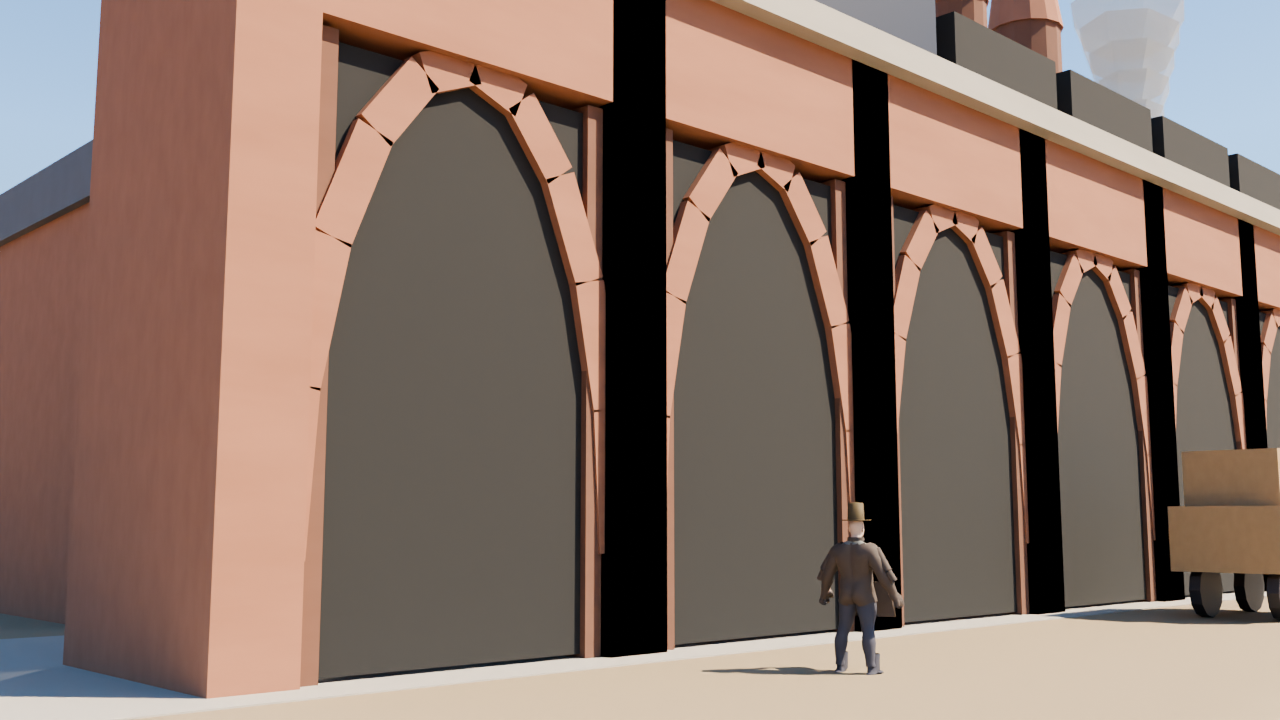
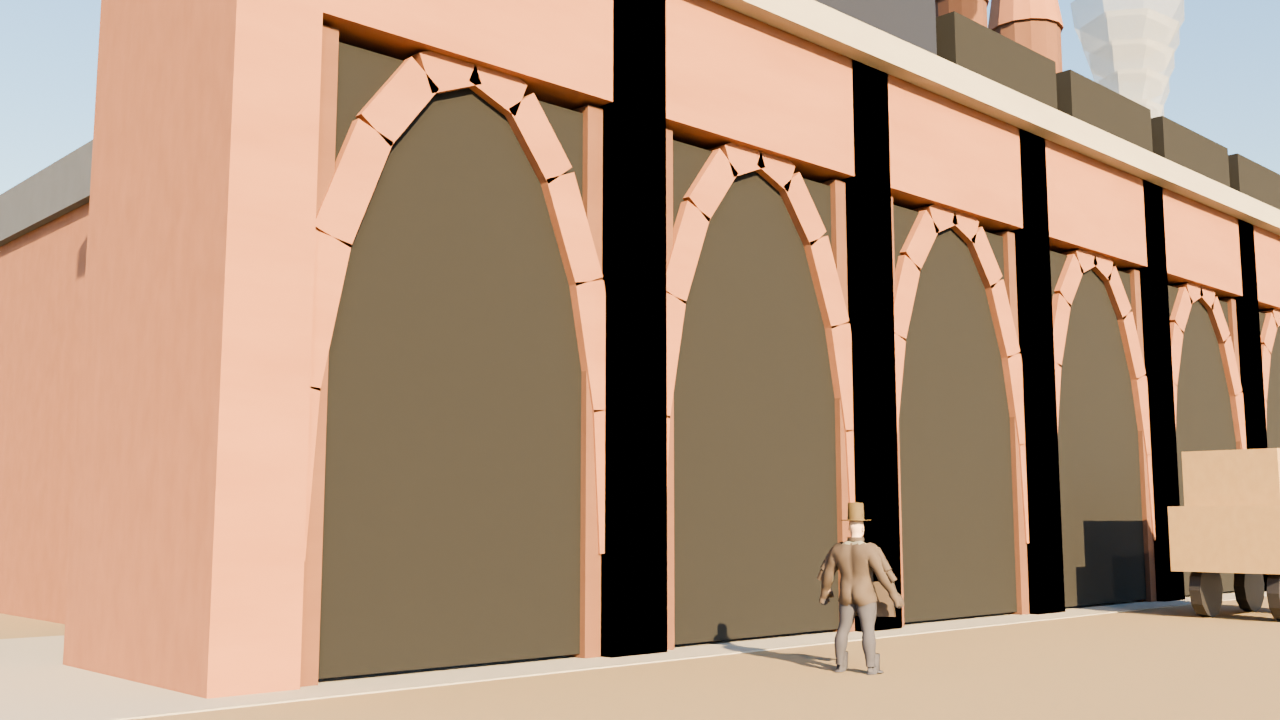
mat keep-lighting redo CP002/CP005; people_lib 3.3
Re-render lane/room with enhance_offsite_materials + --keep-lighting
(authored exposure). Vendor people_lib 3.3 statue exclusion.

diff --git a/course-models/offsite-london-1850-grok/scripts/people_lib.py b/course-models/offsite-london-1850-grok/scripts/people_lib.py
@@ -1,4 +1,4 @@
-"""crystal-palace-people v3.2 — HBM base humans + period-correct modelled garments.
+"""crystal-palace-people v3.3 — HBM base humans + period-correct modelled garments.
 
 Drop-in API (compatible with v2 callers):
   person_mesh(name, kind, mats, FT=0.3048, style=None, pose=None, lod=None, seed=None)
@@ -10,6 +10,7 @@ decimated LODs under people/vendor/bases/. Garments are modelled shells
 police tunic) — not lathe primitives. Proportions: head ~1/7.5 height;
 1850s crowd height 5'0"–5'10". Matte period colours; no white hats.
 Crowd mix: ~42% ladies; crinoline hem ~0.9–1.0 m with waist taper; mid-tone skirts.
+Exclude statues/sculptures/busts and any figure on a plinth or pedestal (keep authored marble/bronze).
 """
 from __future__ import annotations
 import hashlib, math, os, random
@@ -20,7 +21,7 @@ import bpy
 import bmesh
 from mathutils import Matrix, Vector, Euler
 
-PEOPLE_VERSION = "3.2"
+PEOPLE_VERSION = "3.3"
 PEOPLE_TAG = "cpl_people_v3"
 
 _HERE = Path(__file__).resolve().parent
@@ -1173,16 +1174,120 @@ def catalogue():
 # ---------------------------------------------------------------------------
 
 _FIGURE_PREFIXES = (
-    "CROWD", "VIS_", "PERSON", "FIG_", "FIGURE", "PEOPLE", "GENT", "LADY",
+    "CROWD", "VIS_", "PERSON", "FIG_", "PEOPLE", "GENT", "LADY",
     "MAN_", "WOMAN", "CHILD", "BOY_", "GIRL", "POLICE", "SAILOR", "SOLDIER",
     "KWORKER", "WORKER", "NAVY", "FIRE", "GUEST", "STAFF",
     "FB_HERO", "FB_VAR", "PV57_", "CROWD36", "LFB_",
 )
+# Note: bare "FIGURE" removed — it false-matched STATUE_*_FIGURE names.
 _FIGURE_KINDS = {"figure", "worker", "crowd", "person", "human", "visitor"}
+_STATUE_KINDS = {"statue", "sculpture", "sculpt", "bust", "plinth", "pedestal",
+                 "monument", "equestrian", "relief", "ornament"}
+_STATUE_NAME_TOKENS = (
+    "STATUE", "SCULPT", "SCULPTURE", "EQUEST", "BUST_", "_BUST",
+    "MONUMENT", "RELIEF_", "MARBLE_FIG", "BRONZE_FIG",
+)
+_STATUE_MAT_TOKENS = ("gt_marble", "gt_bronze", "marble", "bronze")
+_CLOTHING_MAT_TOKENS = ("coat", "dress", "skirt", "trou", "skin", "hat", "bonnet",
+                        "shawl", "bodice", "smock", "shirt", "waist")
+_PLINTH_NAME_TOKENS = ("PLINTH", "PEDESTAL", "PEDEST")
+
+
+def _mats_blob(ob: bpy.types.Object) -> str:
+    if ob.type != "MESH" or not ob.data:
+        return ""
+    return " ".join((m.name or "").lower() for m in (ob.data.materials or []) if m)
+
+
+def _name_is_statue(name: str) -> bool:
+    n = name.upper()
+    if any(tok in n for tok in _STATUE_NAME_TOKENS):
+        return True
+    # sculpture groups (equestrian / marble groups) — not crowd
+    if n.startswith("GROUP_") and any(t in n for t in ("HORSE", "EQUEST", "M38", "SCULPT", "STATUE")):
+        return True
+    return False
+
+
+def _has_statue_material(ob: bpy.types.Object) -> bool:
+    mats = _mats_blob(ob)
+    if not mats:
+        return False
+    if any(c in mats for c in _CLOTHING_MAT_TOKENS):
+        return False
+    return any(t in mats for t in _STATUE_MAT_TOKENS)
+
+
+_PLINTH_CACHE = None  # list[(obj, loc, top_z)] rebuilt per swap
+
+
+def _plinth_cache():
+    global _PLINTH_CACHE
+    if _PLINTH_CACHE is not None:
+        return _PLINTH_CACHE
+    out = []
+    for p in bpy.data.objects:
+        if p.type != "MESH":
+            continue
+        pn = p.name.upper()
+        if not any(t in pn for t in _PLINTH_NAME_TOKENS):
+            continue
+        pl = p.matrix_world.translation
+        out.append((p, pl, pl.z + max(p.dimensions.z, 0.05)))
+    _PLINTH_CACHE = out
+    return out
+
+
+def _rests_on_plinth(ob: bpy.types.Object) -> bool:
+    """True if parent/name is a plinth/pedestal, or a plinth sits under the object's feet."""
+    n = ob.name.upper()
+    if any(t in n for t in _PLINTH_NAME_TOKENS):
+        # the plinth mesh itself is not a crowd figure
+        return True
+    parent = ob.parent
+    if parent is not None:
+        pn = parent.name.upper()
+        if any(t in pn for t in _PLINTH_NAME_TOKENS) or _name_is_statue(parent.name):
+            return True
+    # geometric: plinth within 2.5 m XY whose top is near object origin Z
+    loc = ob.matrix_world.translation
+    for p, pl, top_z in _plinth_cache():
+        if p is ob:
+            continue
+        dxy = (pl.x - loc.x) ** 2 + (pl.y - loc.y) ** 2
+        if dxy > 6.25:  # 2.5^2
+            continue
+        if abs(top_z - loc.z) < 0.75 or (pl.z < loc.z and (loc.z - top_z) < 0.4):
+            return True
+    return False
+
+
+def _is_statue_or_plinth_figure(ob: bpy.types.Object) -> bool:
+    """Authored marble/bronze statues and any figure standing on a plinth/pedestal."""
+    if ob.type != "MESH":
+        return False
+    pk = (ob.get("part_kind") or ob.get("kind") or "").lower()
+    if pk in _STATUE_KINDS:
+        return True
+    if _name_is_statue(ob.name):
+        return True
+    if _has_statue_material(ob) and (
+        _rests_on_plinth(ob) or ob.matrix_world.translation.z > 1.0
+    ):
+        return True
+    # crowd/person proxies that were placed on a plinth must stay authored
+    if _rests_on_plinth(ob) and pk in _FIGURE_KINDS.union({"", "statue"}):
+        # Only treat as statue if elevated / marble-ish / statue-named sibling
+        if ob.matrix_world.translation.z > 0.9 or _has_statue_material(ob):
+            return True
+    return False
 
 
 def _is_figure(ob: bpy.types.Object) -> bool:
     if ob.type != "MESH":
+        return False
+    # Never swap statues, sculptures, or figures on plinths/pedestals
+    if _is_statue_or_plinth_figure(ob):
         return False
     if ob.get("cpl_people") in (PEOPLE_TAG, "cpl_people_v2", "cpl_people_v1"):
         return True
@@ -1223,6 +1328,8 @@ def _infer_pose(ob, seed: int) -> str:
 def swap_scene_people(era: str = "1851", camera=None, seed: int = 0,
                       max_hero: int = 10, max_mid: int = 60) -> Dict[str, Any]:
     """Replace baked lathe/v2 figures with v3 HBM+garment people. Does not save."""
+    global _PLINTH_CACHE
+    _PLINTH_CACHE = None  # rebuild for this blend
     figs = [o for o in bpy.data.objects if _is_figure(o)]
     if not figs:
         return {"swapped": 0, "version": PEOPLE_VERSION}

diff --git a/course-models/offsite-london-1850-grok/scripts/render_views.py b/course-models/offsite-london-1850-grok/scripts/render_views.py
@@ -27,7 +27,13 @@ def arg(n, d=None): return argv[argv.index(n) + 1] if n in argv else d
 sc = bpy.context.scene; W, H = map(int, arg("--res", "1280x720").split("x")); sc.cycles.samples = int(arg("--samples", "48"))
 sc.render.threads_mode = 'FIXED'; sc.render.threads = int(arg("--threads", "8")); base_exp = sc.view_settings.exposure
 _era = arg("--era", "1850"); _tod = arg("--tod", "exterior_midday")
-_look = apply_look(era=_era, time_of_day=_tod); base_exp = _look["exposure"]
+# --keep-lighting: preserve blend world/sun/exposure/grade (material/people-only passes)
+if "--keep-lighting" in argv:
+    print("KEEP_LIGHTING exposure", sc.view_settings.exposure,
+          "look", sc.view_settings.look, flush=True)
+    base_exp = sc.view_settings.exposure
+else:
+    _look = apply_look(era=_era, time_of_day=_tod); base_exp = _look["exposure"]
 if arg("--exposure"): sc.view_settings.exposure = float(arg("--exposure"))
 os.makedirs(arg("--outdir"), exist_ok=True)
 cams = arg("--cams").split(",") if arg("--cams") != "ALL" else sorted(o.name for o in bpy.data.objects if o.type == 'CAMERA')
